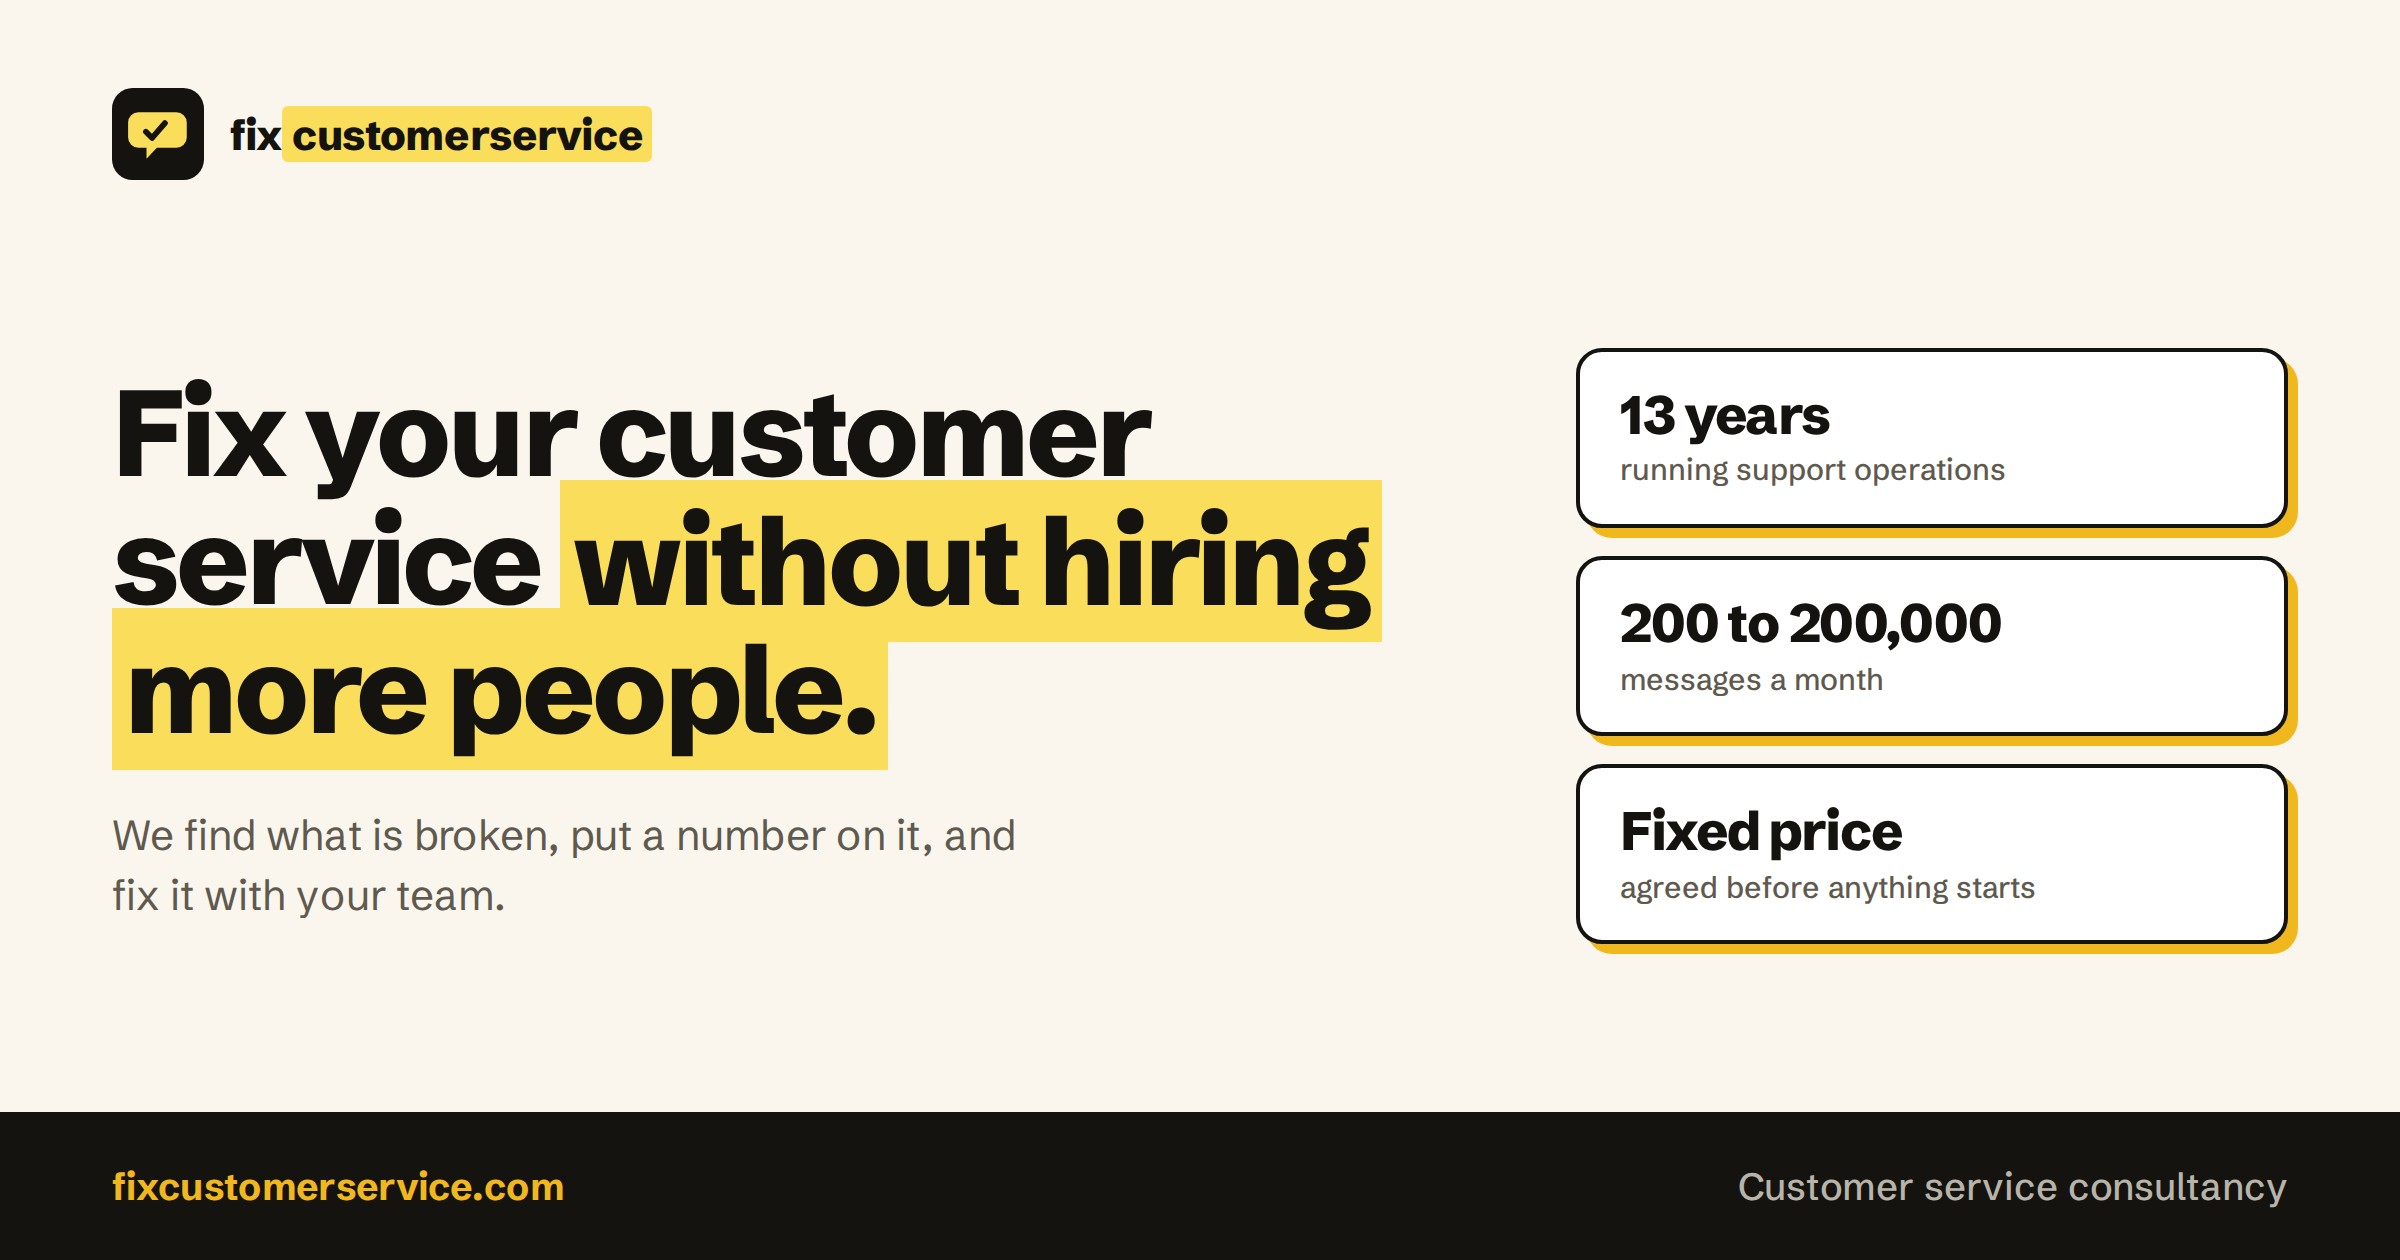
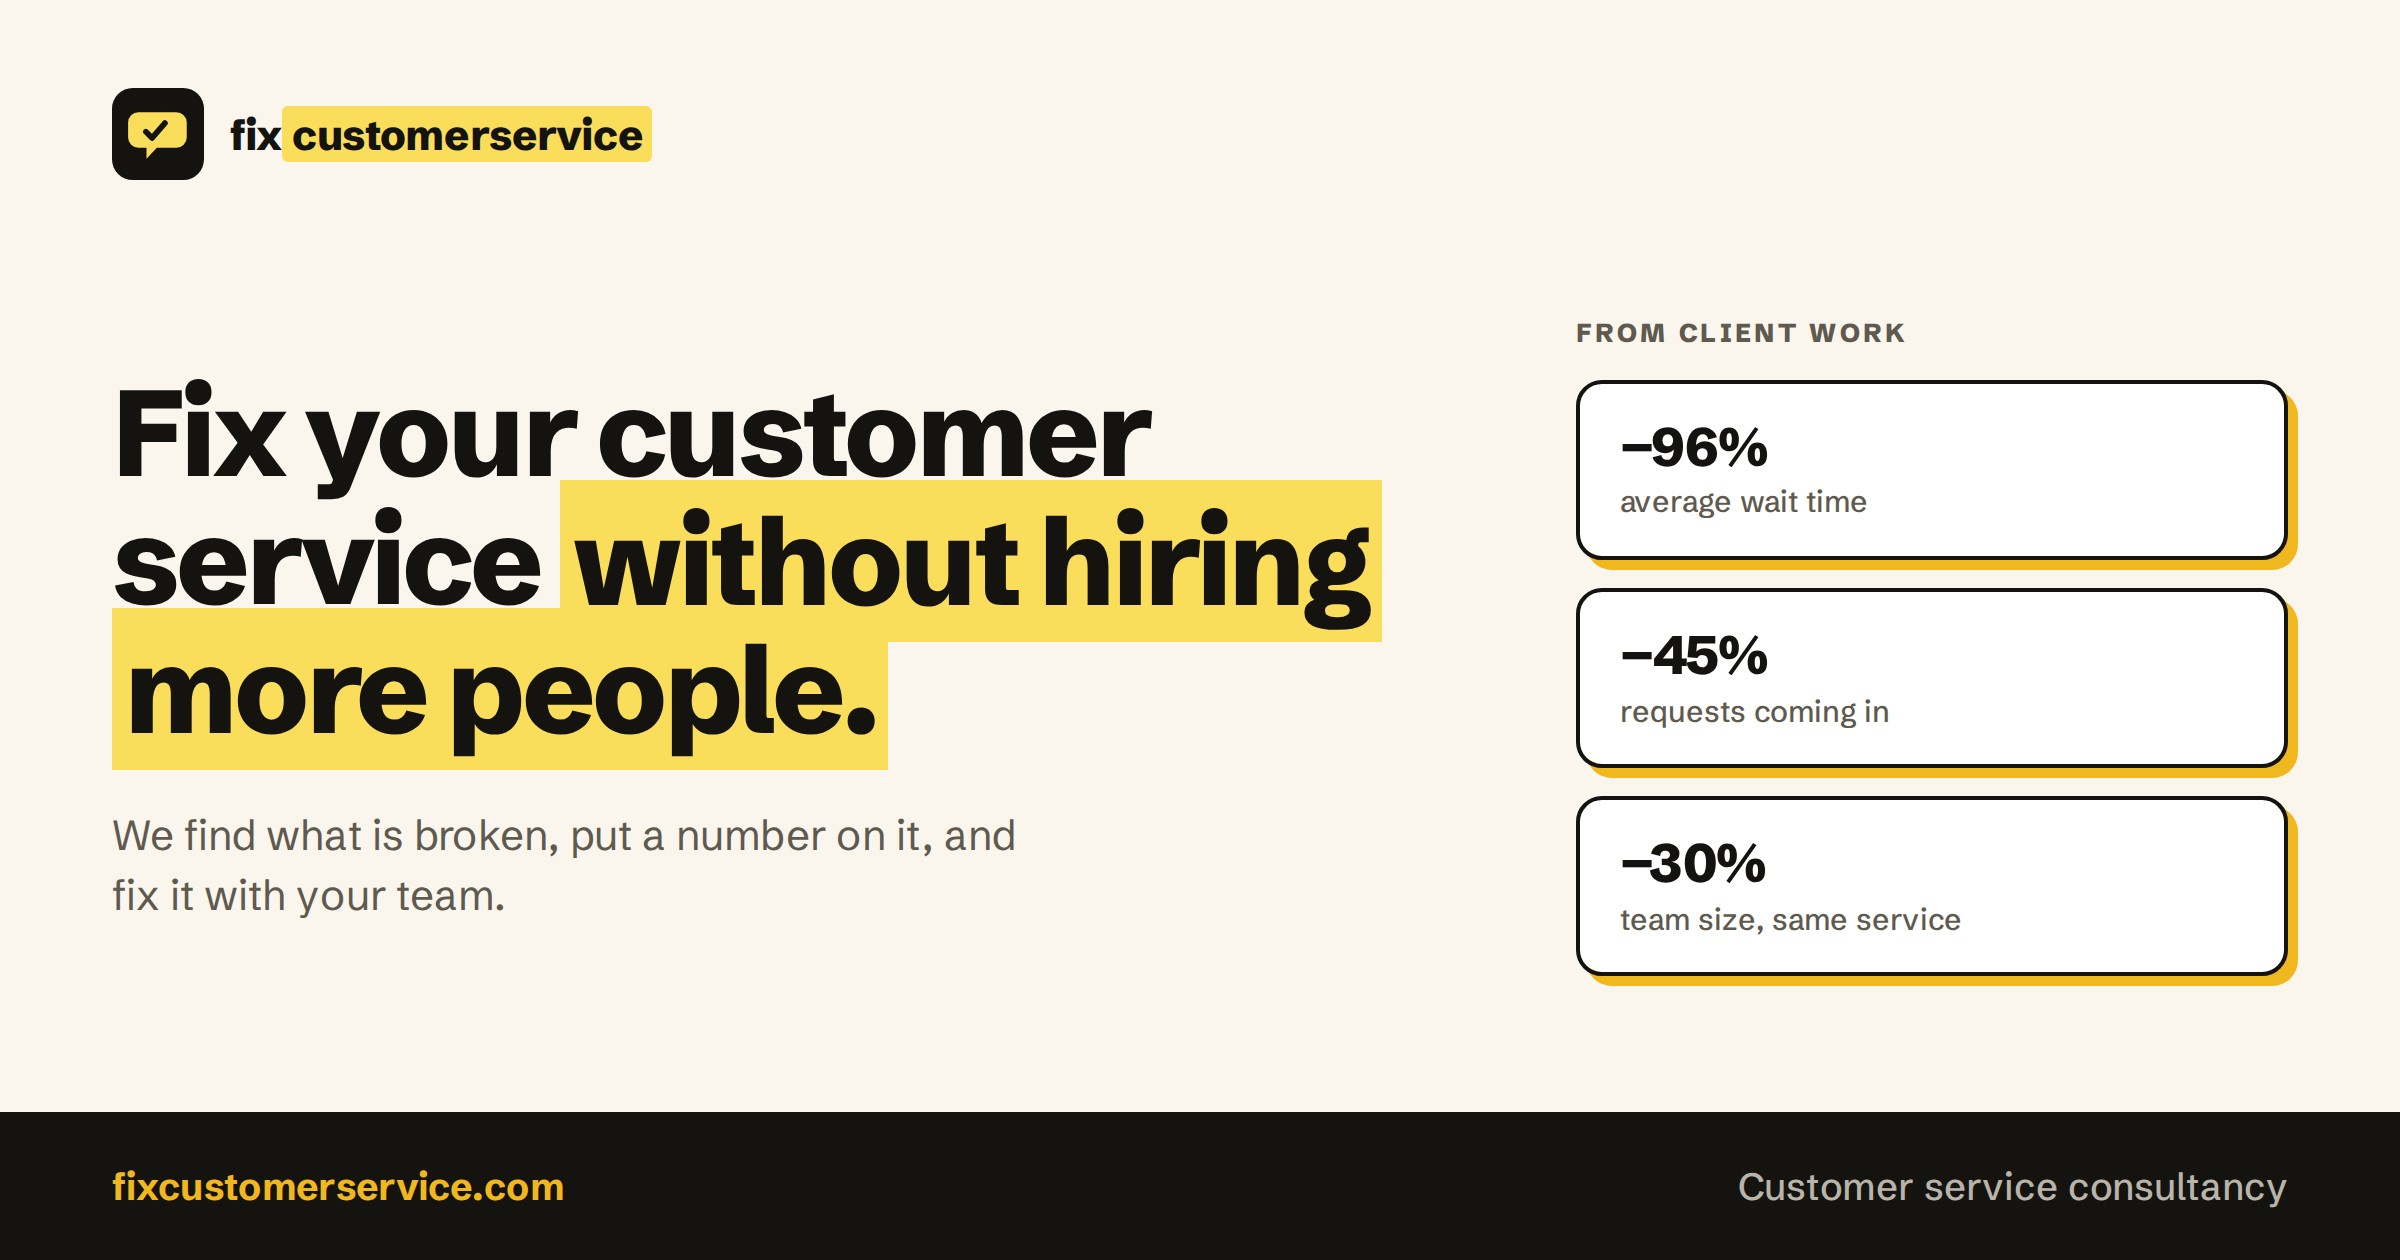
Lead the share card with outcomes, not credentials
Replaces the fixed-price credential and the two alongside it with the
three result figures: 96% lower average wait time, 45% fewer requests
coming in, 30% smaller team at the same service. Every one is already
published in the case studies on the site, and the card labels them as
coming from client work rather than presenting them bare.

Alt text updated to match, since it describes the figures a sighted
reader sees.

Claude-Session: https://claude.ai/code/session_01MoEGPkZ9snJsWGLDdrYjLd

Changed region(s): [[0.6562, 0.2476, 0.9688, 0.8048]]

diff --git a/public/index.html b/public/index.html
@@ -25,13 +25,13 @@
 <meta property="og:image" content="https://fixcustomerservice.com/og-image.jpg">
 <meta property="og:image:width" content="2400">
 <meta property="og:image:height" content="1260">
-<meta property="og:image:alt" content="Fix your customer service without hiring more people. fixcustomerservice.com, customer service consultancy.">
+<meta property="og:image:alt" content="Fix your customer service without hiring more people. From client work: 96% lower average wait time, 45% fewer requests coming in, 30% smaller team at the same service. fixcustomerservice.com">
 <meta name="twitter:card" content="summary_large_image">
 <meta name="twitter:title" content="Fix your customer service without hiring more people">
 <meta name="twitter:description" content="Thirteen years running support operations. Any business, any size.">
 <meta name="twitter:image" content="https://fixcustomerservice.com/og-image.jpg">
 <meta name="theme-color" content="#141310">
-<meta name="build" content="2026-09-21-v25">
+<meta name="build" content="2026-09-21-v26">
 <script type="application/ld+json">
 {
   "@context": "https://schema.org",

diff --git a/public/customer-service-audit.html b/public/customer-service-audit.html
@@ -25,7 +25,7 @@
 <meta property="og:image" content="https://fixcustomerservice.com/og-image.jpg">
 <meta property="og:image:width" content="2400">
 <meta property="og:image:height" content="1260">
-<meta property="og:image:alt" content="Fix your customer service without hiring more people. fixcustomerservice.com, customer service consultancy.">
+<meta property="og:image:alt" content="Fix your customer service without hiring more people. From client work: 96% lower average wait time, 45% fewer requests coming in, 30% smaller team at the same service. fixcustomerservice.com">
 <meta name="twitter:card" content="summary_large_image">
 <meta name="twitter:title" content="Customer Service Audit">
 <meta name="twitter:description" content="A one week audit of your support operation. We find what is driving your cost and reply times, rank it, and price the fixes.">
